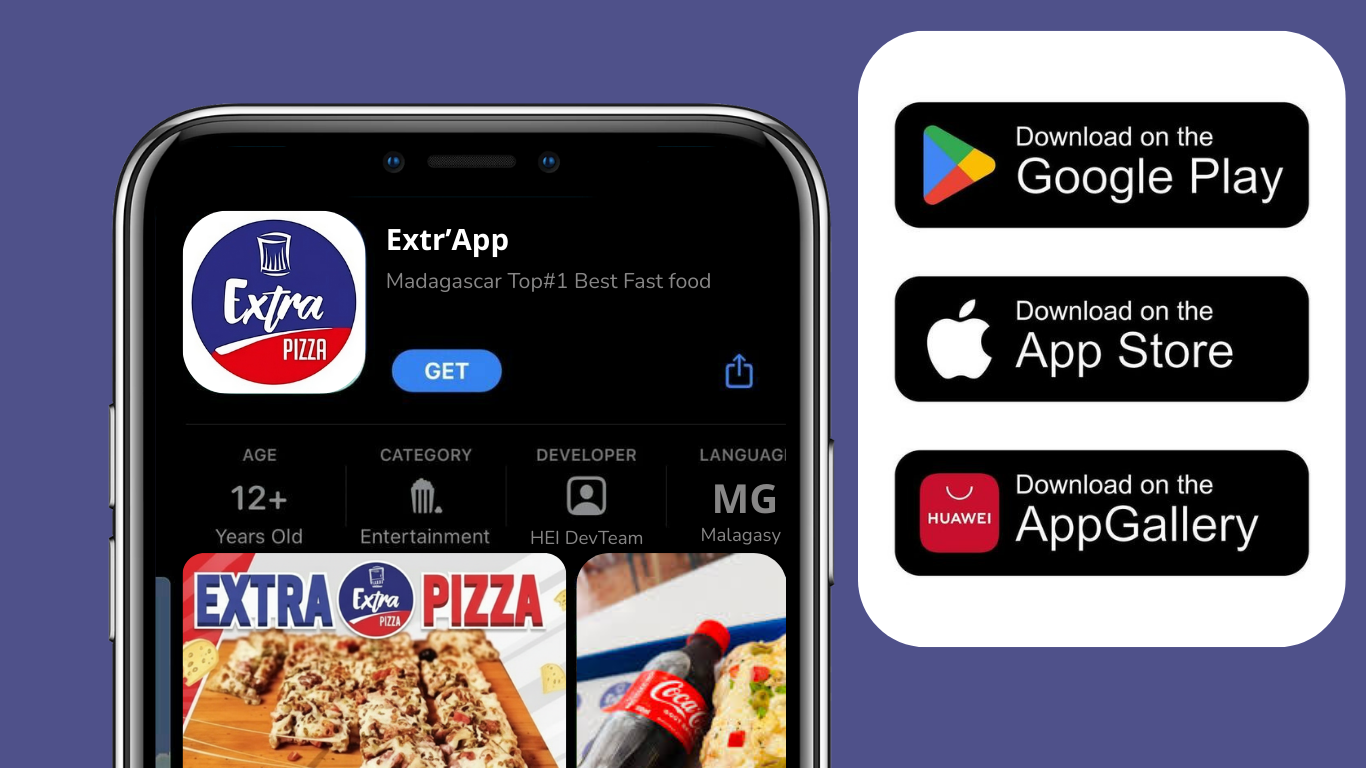
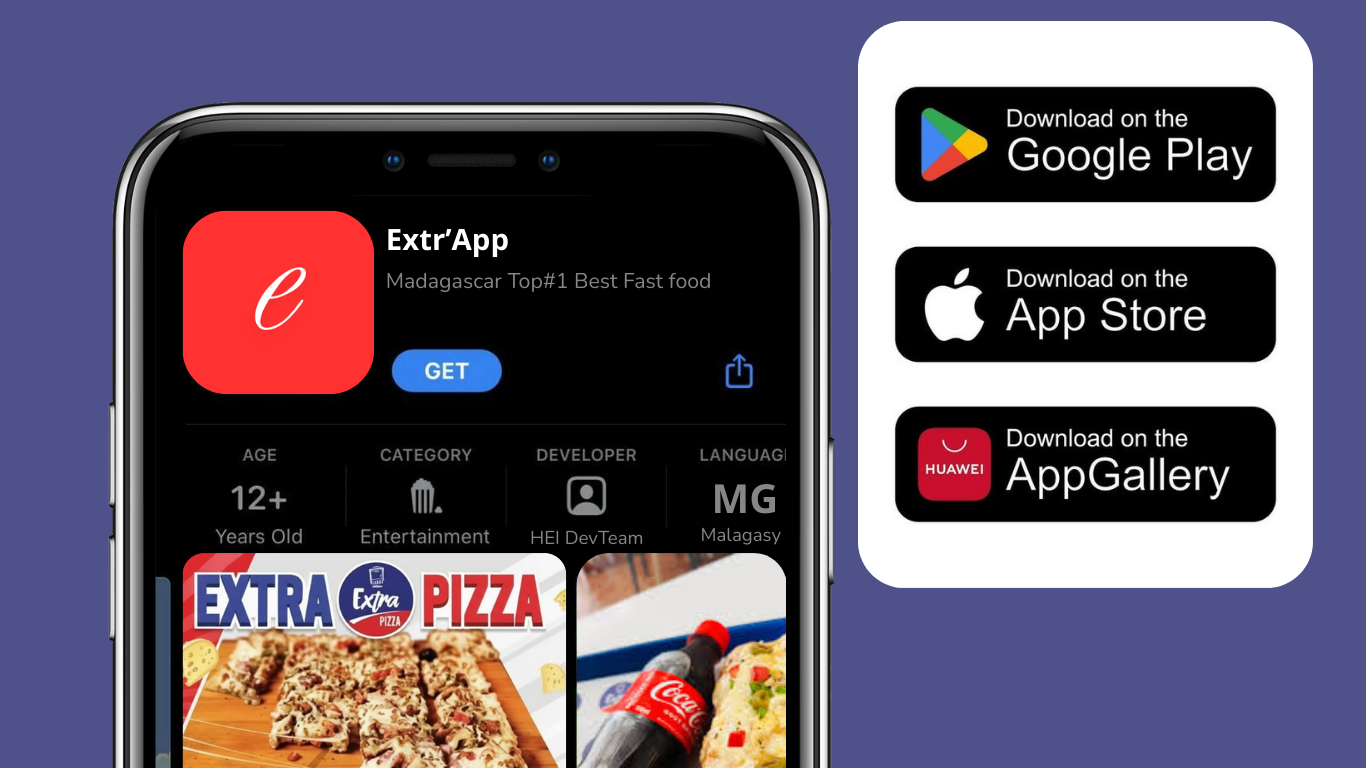
j-1

diff --git a/extrapp.html b/extrapp.html
@@ -13,7 +13,7 @@
         integrity="sha512-2SwdPD6INVrV/lHTZbO2nodKhrnDdJK9/kg2XD1r9uGqPo1cUbujc+IYdlYdEErWNu69gVcYgdxlmVmzTWnetw=="
         crossorigin="anonymous" referrerpolicy="no-referrer" />
     <title>Extr'App-L'Application officielle de EXTRA PIZZA</title>
-    <link rel="shortcut icon" href="images/extrapizza_head_icon.png" type="image/x-icon" />
+    <link rel="shortcut icon" href="images/extrapp_logo.png" type="image/x-icon" />
     <link rel="stylesheet" href="extrapp.css" />
     <link rel="stylesheet" href="https://cdnjs.cloudflare.com/ajax/libs/font-awesome/7.0.1/css/all.min.css"
         integrity="sha512-2SwdPD6INVrV/lHTZbO2nodKhrnDdJK9/kg2XD1r9uGqPo1cUbujc+IYdlYdEErWNu69gVcYgdxlmVmzTWnetw=="
@@ -22,7 +22,7 @@
 
 <body>
     <header>
-        <img src="images/extrapizza_icon.webp" alt="Extra Pizza" width="50" height="50" />
+        <img src="images/extrapp_logo.png" alt="Extra Pizza" width="50" height="50" />
         <ul>
             <li>
                 <a href="index.html"> Accueil </a>
@@ -48,7 +48,7 @@
         <!-- Section Introduction -->
         <section class="intro-section">
             <div class="intro-content">
-                <h1>Découvrez <span>Extr'App</span></h1>
+                <h1>DECOUVREZ <span>EXTR'APP</span></h1>
                 <p class="subtitle">L'application officielle d'Extra Pizza</p>
                 <p class="description">
                     Commandez vos French Tacos et pizzas feuilletées préférés en quelques clics,
@@ -73,7 +73,7 @@
                 </div>
             </div>
             <div class="intro-image">
-                <img src="images/phone_mockup.png" alt="Extr'App sur smartphone" />
+              <video src="images/extrapp_video.mp4" autoplay muted loop></video>
                 <!-- Tu peux remplacer par un vrai mockup d'app -->
             </div>
         </section>
@@ -132,6 +132,10 @@
             <h2>L'équipe derrière Extr'App</h2>
             <div class="team-grid">
                 <div class="team-member">
+                    <div class="floating_heart_div">
+                        <img src="images/red_heart.png" class="floating_heart heart1">
+                        <img src="images/blue_heart.png" class="floating_heart heart2">
+                    </div>
                     <img src="images/fatratra.png" alt="Ny Fatratra RAFANOMEZANTSOA (Spicy)" />
                     <h3>Ny Fatratra RAFANOMEZANTSOA</h3>
                     <p class="role">Lead Developer & UI/UX Designer</p>
@@ -192,7 +196,7 @@
                 CONTACT
             </h2>
             <ul>
-                <li><i class="fa-solid fa-phone"></i> +261 34 00 000 00</li>
+                <li><i class="fa-solid fa-phone"></i> +261 34 11 808 80</li>
                 <li><i class="fa-brands fa-instagram"></i> @extra_pizza_madagascar</li>
                 <li><i class="fa-brands fa-facebook-f"></i> Extra Pizza</li>
                 <li><i class="fa-solid fa-envelope"></i><a href="" class="mail"> contact.extrapizza@gmail.com</a></li>

diff --git a/extrapp.css b/extrapp.css
@@ -2,6 +2,7 @@
   padding: 0;
   margin: 0;
   box-sizing: border-box;
+  font-family: "Montserrat";
 }
 :root {
   /* --- MAIN COLORS --- */
@@ -243,14 +244,19 @@ ul li .mail {
   );
   color: white;
   gap: 50px;
+  margin-top: 0;
+  z-index: 2;
+  margin-inline: 20px;
+  border-radius: 20px;
+  backdrop-filter: blur(10px);
+  border: 1px solid rgba(255, 255, 255, 0.2);
 }
-
 .intro-content h1 {
-  font-family: "Montserrat", sans-serif;
-  font-size: var(--font-size-6);
+  font-family: "Black Han Sans";
   font-weight: 800;
   line-height: var(--line-height-6);
   margin-bottom: 10px;
+  z-index: 4;
 }
 
 .intro-content h1 span {
@@ -272,9 +278,9 @@ ul li .mail {
   opacity: 0.95;
 }
 
-.intro-image img {
-  max-width: 500px;
-  width: 100%;
+.intro-image video {
+  max-width: 700px;
+
   border-radius: 20px;
   box-shadow: 0 20px 40px rgba(0, 0, 0, 0.3);
 }
@@ -376,8 +382,11 @@ ul li .mail {
 .download-cta-section {
   padding: 100px 10%;
   text-align: center;
-  background: linear-gradient(135deg, var(--red) 0%, #ff3838 100%);
+  background: linear-gradient(135deg, var(--red) 0%, var(--light-blue) 100%);
   color: white;
+  display: flex;
+  flex-direction: column;
+  align-items: center;
 }
 
 .download-cta-section h2 {
@@ -434,7 +443,7 @@ ul li .mail {
   height: 200px;
   object-fit: cover;
   border-radius: 50%;
-  border: 6px solid var(--red);
+  border: 6px solid var(--light-blue);
   margin-bottom: 20px;
 }
 
@@ -456,4 +465,44 @@ ul li .mail {
   font-family: "Kaushan Script";
   font-size: var(--font-size-1);
   color: var(--red);
+}
+/** Floating hearts **/
+.floating_heart {
+  position: absolute;
+  width: 120px;
+  opacity: 0.8;
+  animation: float 12s ease-in-out infinite alternate;
+}
+
+.heart1 {
+  top: 120px;
+  left: 1px;
+}
+
+.heart2 {
+  bottom: 140px;
+  right: 60px;
+}
+
+@keyframes float {
+  0% {
+    transform: translateY(0px) translateX(0px) rotate(0deg);
+  }
+  25% {
+    transform: translateY(-40px) translateX(15px) rotate(4deg);
+  }
+  50% {
+    transform: translateY(-55px) translateX(0px) rotate(0deg);
+  }
+  75% {
+    transform: translateY(-35px) translateX(-15px) rotate(-4deg);
+  }
+  100% {
+    transform: translateY(0px) translateX(0px) rotate(0deg);
+  }
+}
+.floating_heart_div img {
+  border: none;
+  border-radius: 0;
+  opacity: 1;
 }

diff --git a/index.html b/index.html
@@ -179,8 +179,19 @@
         <p>Ton kiff ultime, notre qualité non négociable.</p>
         <p>Nommé <strong><span class="span_red">Meilleur Fast Food</span></strong> aux Tropic Awards, Extra Pizza fait
           la différence avec des recettes généreuses, un goût unique et une qualité constante. Le fast-food où le
-          plaisir passe en premier.</p>
-        <a href="about.html">A propos &rarr;</a>
+          plaisir passe en premier.
+          Extra Pizza s’impose comme une référence pour celles
+          et ceux qui veulent plus qu’un simple repas rapide. Ici, chaque plat est une signature : des recettes
+          généreuses, un goût reconnaissable entre mille et une qualité constante qui fait revenir.
+
+          Que ce soit pour une pause rapide, un moment entre amis ou une vraie envie de bien manger, Extra Pizza fait la
+          différence. Un fast-food moderne, audacieux, où le plaisir passe en premier, sans compromis sur le sérieux, la
+          fraîcheur et le savoir-faire.
+
+          Extra Pizza, ce n’est pas juste manger vite.
+          C’est manger mieux, avec du caractère, du goût et une vraie identité.</p>
+
+        <a href="">A propos &rarr;</a>
       </div>
     </section>
     <section id="restaurant">
@@ -270,7 +281,7 @@
         CONTACT
       </h2>
       <ul>
-        <li><i class="fa-solid fa-phone"></i> +261 34 00 000 00</li>
+        <li><i class="fa-solid fa-phone"></i> +261 34 11 808 80</li>
         <li><i class="fa-brands fa-instagram"></i> @extra_pizza_madagascar</li>
         <li><i class="fa-brands fa-facebook-f"></i> Extra Pizza</li>
         <li><i class="fa-solid fa-envelope"></i><a href="" class="mail"> contact.extrapizza@gmail.com</a></li>

diff --git a/menu.html b/menu.html
@@ -152,7 +152,7 @@
     </section>
     <section class="menu">
         <div class="title">
-            <h2>OUR<span class="span_red"> MENU</span></h2>
+            <h2>NOTRE<span class="span_red"> MENU</span></h2>
             <p>Choisissez votre plat préféré</p>
         </div>
 
@@ -353,7 +353,7 @@
                 CONTACT
             </h2>
             <ul>
-                <li><i class="fa-solid fa-phone"></i> +261 34 00 000 00</li>
+                <li><i class="fa-solid fa-phone"></i> +261 34 11 808 80</li>
                 <li><i class="fa-brands fa-instagram"></i> @extra_pizza_madagascar</li>
                 <li><i class="fa-brands fa-facebook-f"></i> Extra Pizza</li>
                 <li><i class="fa-solid fa-envelope"></i><a href="" class="mail"> contact.extrapizza@gmail.com</a></li>

diff --git a/restaurant.html b/restaurant.html
@@ -110,7 +110,7 @@
 
         <div class="info-resto">
           <img src="images/resto_1.jpg" alt="Resto 5" />
-          <h3>Extra pizza Manalalondo</h3>
+          <h3>Extra pizza Antanimena</h3>
           <div class="stars">★★★★☆</div>
         </div>
 

diff --git a/style.css b/style.css
@@ -422,7 +422,7 @@ header a {
   flex-direction: row;
   gap: var(--font-size);
   flex: 0 0 1;
-  animation: spin 10s linear infinite;
+  animation: spin 15s linear infinite;
 }
 .slide_item {
   background-color: var(--dark-blue);
